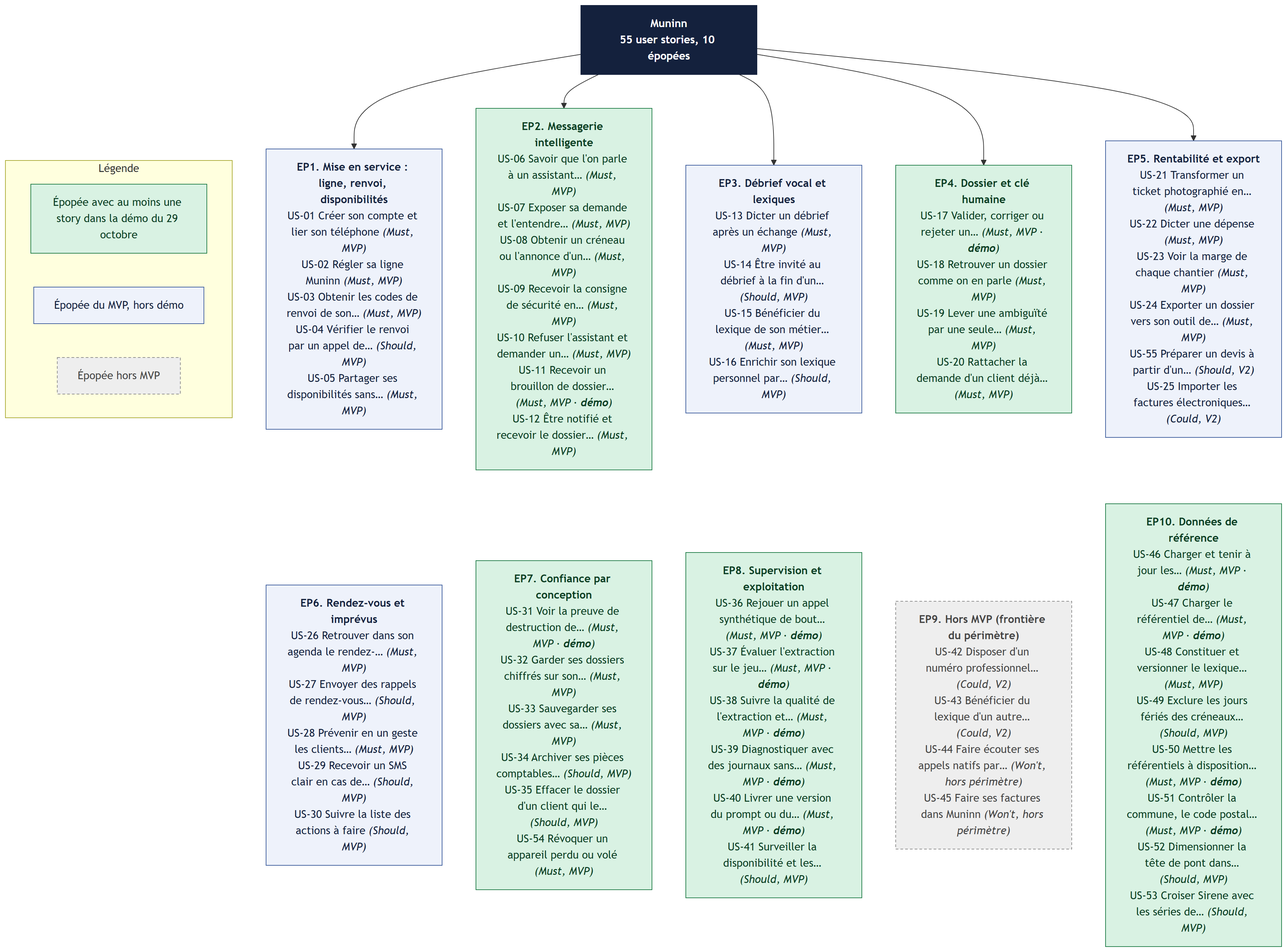
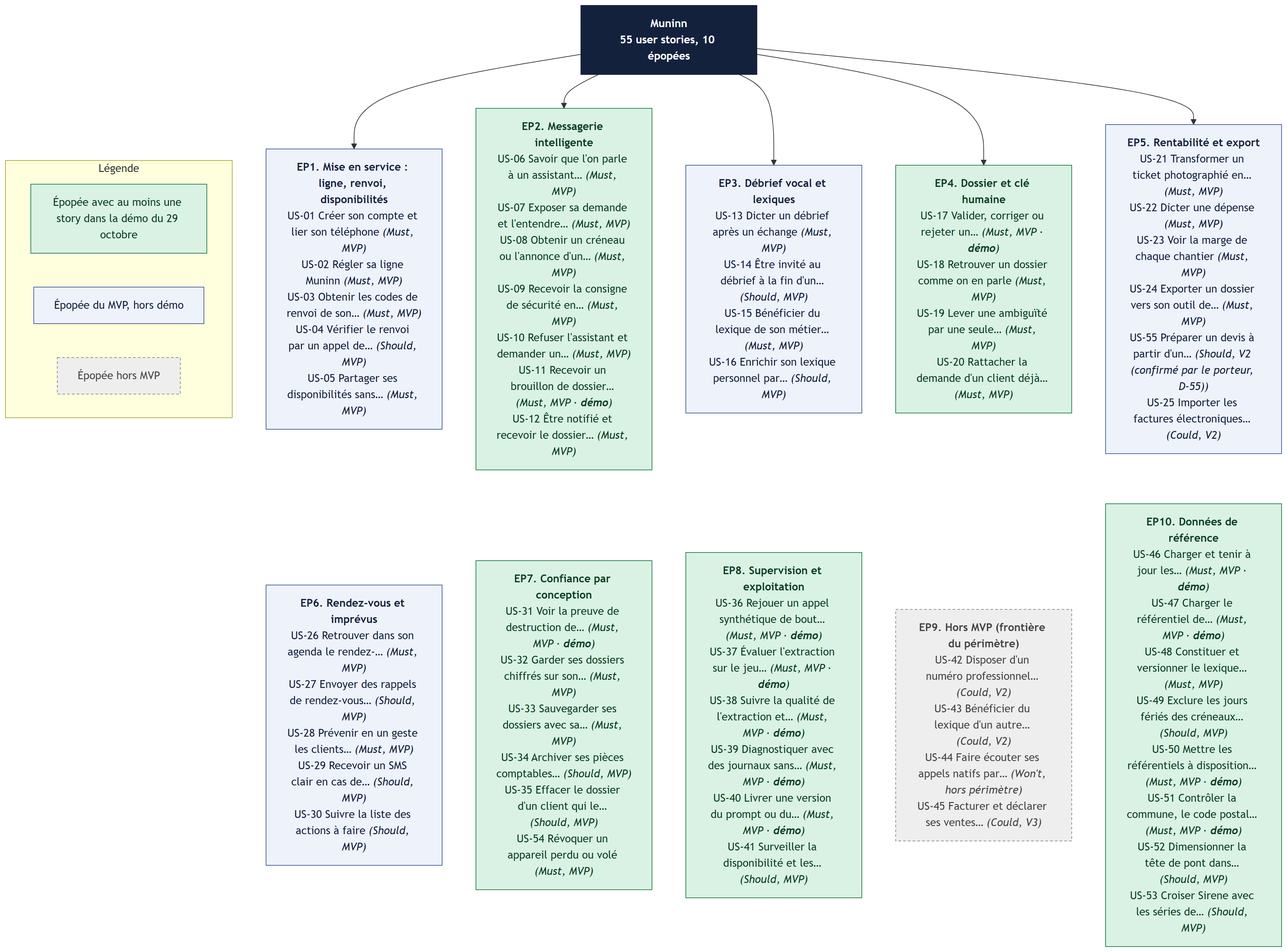
docs: valide D-54 et fixe les horizons du devis et de la facture (D-55) (#21)

Changed region(s): [[0.869, 0.1238, 0.9932, 0.4641], [0.7138, 0.6497, 0.8069, 0.8972]]

diff --git a/docs/conception/sources_de_donnees/01-user-stories.md b/docs/conception/sources_de_donnees/01-user-stories.md
@@ -48,7 +48,8 @@ Contraintes du projet de certification, rappelées par la feuille de route :
   - Should : forte valeur, mais un contournement existe ;
   - Could : utile, reportable sans perte de la promesse ;
   - Won't : exclu de l'horizon, gardé pour tracer la frontière du périmètre.
-- **Horizon :** MVP, V2 ou hors périmètre, selon la section 4.4 de l'analyse.
+- **Horizon :** MVP, V2, V3, V4 ou hors périmètre, selon la section 4.4 de l'analyse et les
+  décisions ultérieures (D-53, D-55).
 - **Démo :** « oui » si la story entre dans le périmètre de la démo du 29 octobre (section 8).
 - **Règles :** R1 à R10 de la passation back-end. « Aucune » si la story n'en touche aucune.
 - **Compétences :** codes C1 à C21 du référentiel servis par la réalisation de la story. Toutes
@@ -676,7 +677,7 @@ En tant qu'artisan, je veux que Muninn prépare un devis à partir d'un dossier,
 afin de l'envoyer vite au client après l'avoir vérifié.
 
 - Priorité : Should
-- Horizon : V2 [H : à confirmer par le porteur]
+- Horizon : V2 (confirmé par le porteur, D-55)
 - Démo : non
 - Règles : R1, R4, R5, R7
 - Compétences : C8, C9, C12, C17
@@ -1168,26 +1169,32 @@ Critères d'acceptation :
 Raison de l'exclusion : impossibilité technique pour une application tierce et risque pénal
 (analyse, section 1.4).
 
-#### US-45. Faire ses factures dans Muninn
+#### US-45. Facturer et déclarer ses ventes depuis Muninn
 
-En tant qu'artisan, je veux éditer mes factures dans Muninn afin de n'avoir qu'un outil.
+En tant qu'artisan, je veux facturer depuis un dossier de Muninn et que les données de mes ventes
+soient transmises à l'administration (e-reporting), afin de respecter la réforme sans changer
+d'outil.
 
-Depuis D-53 (14 octobre 2026), la story ne porte plus que sur les factures : la préparation des
-devis fait l'objet de US-55.
+Pour un artisan qui travaille surtout pour des particuliers, l'enjeu principal est l'e-reporting :
+les factures à des particuliers ne relèvent pas de la facture électronique.
 
-- Priorité : Won't
-- Horizon : hors périmètre
+Historique : « Won't » jusqu'au 14 octobre 2026 (marché saturé, levier 4) ; D-53 a ouvert les
+devis, D-55 ouvre la facturation électronique à l'horizon V3 ou V4.
+
+- Priorité : Could
+- Horizon : V3 [H : V3 ou V4, à fixer]
 - Démo : non
-- Règles : Aucune
-- Compétences : sans objet
+- Règles : R1, R5
+- Compétences : C17
 
 Critères d'acceptation :
 
-1. Étant donné l'application, quand on parcourt ses fonctions, alors elle n'émet aucune facture.
-2. Étant donné un dossier prêt à facturer, quand l'artisan veut une facture, alors Muninn lui
-   propose l'export vers son outil (US-24).
-
-Raison de l'exclusion : marché saturé ; Muninn se branche sur les outils existants (levier 4).
+1. Étant donné un dossier terminé, quand l'artisan émet une facture, alors elle part par la
+   plateforme agréée partenaire ; Muninn n'est pas lui-même plateforme agréée.
+2. Étant donné une vente à un particulier, quand elle est facturée, alors les données
+   d'e-reporting sont transmises par la même plateforme [H : obligations à vérifier à la date du lot].
+3. Étant donné un artisan qui garde son outil de facturation, quand il veut facturer, alors
+   l'export (US-24) reste disponible.
 
 Éléments de la section 4.4 non déclinés en stories :
 
@@ -1431,30 +1438,30 @@ Critères d'acceptation :
 
 ### 6.1 Propositions de valeur et configuration
 
-| Élément du concept                               | Stories                                  |
-| ------------------------------------------------ | ---------------------------------------- |
-| PV1. Messagerie intelligente                     | US-06 à US-12, US-51                     |
-| PV2. Débrief vocal                               | US-13, US-14                             |
-| PV3. Clé humaine de dossier                      | US-17 à US-20                            |
-| PV4. Rentabilité et export                       | US-21 à US-24 (MVP), US-25 et US-55 (V2) |
-| PV5. Imprévus et rendez-vous                     | US-26 à US-30                            |
-| PV6. Confiance par conception                    | US-31 à US-35, US-54                     |
-| Configuration de la ligne et du renvoi           | US-01 à US-04                            |
-| Disponibilités                                   | US-05, US-08, US-26, US-49               |
-| Lexique métier et personnel (levier 3)           | US-15, US-16, US-43, US-48               |
-| Supervision                                      | US-36 à US-41                            |
-| Référentiels et normalisation des champs         | US-46, US-47, US-50, US-51               |
-| Dimensionnement du marché (analyse, section 1.1) | US-52, US-53                             |
+| Élément du concept                               | Stories                                                    |
+| ------------------------------------------------ | ---------------------------------------------------------- |
+| PV1. Messagerie intelligente                     | US-06 à US-12, US-51                                       |
+| PV2. Débrief vocal                               | US-13, US-14                                               |
+| PV3. Clé humaine de dossier                      | US-17 à US-20                                              |
+| PV4. Rentabilité et export                       | US-21 à US-24 (MVP), US-25 et US-55 (V2), US-45 (V3 ou V4) |
+| PV5. Imprévus et rendez-vous                     | US-26 à US-30                                              |
+| PV6. Confiance par conception                    | US-31 à US-35, US-54                                       |
+| Configuration de la ligne et du renvoi           | US-01 à US-04                                              |
+| Disponibilités                                   | US-05, US-08, US-26, US-49                                 |
+| Lexique métier et personnel (levier 3)           | US-15, US-16, US-43, US-48                                 |
+| Supervision                                      | US-36 à US-41                                              |
+| Référentiels et normalisation des champs         | US-46, US-47, US-50, US-51                                 |
+| Dimensionnement du marché (analyse, section 1.1) | US-52, US-53                                               |
 
 ### 6.2 Règles R1 à R10
 
 | Règle | Objet                                             | Stories                                                                                                                                     |
 | ----- | ------------------------------------------------- | ------------------------------------------------------------------------------------------------------------------------------------------- |
-| R1    | Aucun dossier en clair côté serveur               | US-01, US-05, US-08, US-12, US-16 à US-21, US-23 à US-28, US-30, US-32 à US-35, US-38, US-41, US-51, US-54, US-55                           |
+| R1    | Aucun dossier en clair côté serveur               | US-01, US-05, US-08, US-12, US-16 à US-21, US-23 à US-28, US-30, US-32 à US-35, US-38, US-41, US-45, US-51, US-54, US-55                    |
 | R2    | Audio détruit après extraction                    | US-04, US-10, US-11, US-13, US-14, US-22, US-31, US-42, US-44                                                                               |
 | R3    | Transcriptions éphémères                          | US-11, US-13, US-16, US-18, US-22, US-31, US-36, US-39, US-51                                                                               |
 | R4    | Journaux sans donnée personnelle                  | US-01, US-05, US-11, US-12, US-16, US-17, US-20, US-21, US-26 à US-29, US-31, US-35, US-38, US-39, US-41, US-50, US-51, US-52, US-54, US-55 |
-| R5    | Hébergement et traitement dans l'UE               | US-11, US-13, US-15, US-21, US-22, US-25, US-37, US-40, US-43, US-50, US-55                                                                 |
+| R5    | Hébergement et traitement dans l'UE               | US-11, US-13, US-15, US-21, US-22, US-25, US-37, US-40, US-43, US-45, US-50, US-55                                                          |
 | R6    | L'agent s'annonce toujours                        | US-02, US-04, US-06, US-07, US-09, US-10, US-42                                                                                             |
 | R7    | Aucune donnée de santé                            | US-09, US-11, US-13, US-55                                                                                                                  |
 | R8    | Pas de secret dans le dépôt                       | US-40                                                                                                                                       |
@@ -1470,26 +1477,26 @@ citent R5 appellent un fournisseur d'IA et sont couvertes par ce contrôle.
 
 ### 6.3 Compétences du référentiel
 
-| Compétences | Stories                                                                                             | Remarque                                                                                    |
-| ----------- | --------------------------------------------------------------------------------------------------- | ------------------------------------------------------------------------------------------- |
-| C1          | US-25, US-46 à US-49, US-52, US-53                                                                  | Extraction automatisée des sources SRC-01 à SRC-14 (phase 3)                                |
-| C2          | US-50, US-52                                                                                        | Requêtes SQL sur la base des référentiels et sur Sirene                                     |
-| C3          | US-11, US-46 à US-49, US-51 à US-53                                                                 | Normalisation des champs extraits (E.164, code postal), nettoyage et agrégation des sources |
-| C4          | US-01, US-05, US-12, US-32 à US-35, US-41, US-46, US-47, US-54                                      | Base conforme au RGPD, durées de conservation, base des référentiels                        |
-| C5          | US-50, US-51                                                                                        | API REST des référentiels, consommée par l'extraction                                       |
-| C6, C7      | sans objet                                                                                          | Portées par la phase 0b (veille, benchmark)                                                 |
-| C8          | US-02, US-06 à US-11, US-13, US-15, US-16, US-21, US-22, US-25, US-28, US-43, US-48, US-55          | Paramétrage des services de transcription et de LLM                                         |
-| C9          | US-07, US-11, US-12, US-13, US-21, US-22, US-36, US-51, US-55                                       | API exposant l'extraction                                                                   |
-| C10         | US-13, US-17, US-36                                                                                 | Intégration de l'API dans une interface accessible                                          |
-| C11         | US-17, US-37, US-38                                                                                 | Métriques de qualité et tableau de bord                                                     |
-| C12         | US-06, US-09, US-11, US-15, US-31, US-36, US-37, US-40, US-43, US-51, US-55                         | Évaluation des réponses, validation des formats, conformité                                 |
-| C13         | US-37, US-40                                                                                        | Livraison contrôlée, versionnage, retour arrière                                            |
-| C14         | toutes                                                                                              | Ce document et le document 04                                                               |
-| C15, C16    | sans objet                                                                                          | Portées par la phase 2 (architecture, méthode agile)                                        |
-| C17         | US-01 à US-05, US-12, US-14, US-16 à US-20, US-23, US-24, US-26 à US-30, US-32, US-33, US-54, US-55 | Composants et interfaces                                                                    |
-| C18, C19    | US-40                                                                                               | Intégration et livraison continues                                                          |
-| C20         | US-31, US-38, US-39, US-41                                                                          | Surveillance et journalisation conforme                                                     |
-| C21         | US-39                                                                                               | Fiches d'incident                                                                           |
+| Compétences | Stories                                                                                                    | Remarque                                                                                    |
+| ----------- | ---------------------------------------------------------------------------------------------------------- | ------------------------------------------------------------------------------------------- |
+| C1          | US-25, US-46 à US-49, US-52, US-53                                                                         | Extraction automatisée des sources SRC-01 à SRC-14 (phase 3)                                |
+| C2          | US-50, US-52                                                                                               | Requêtes SQL sur la base des référentiels et sur Sirene                                     |
+| C3          | US-11, US-46 à US-49, US-51 à US-53                                                                        | Normalisation des champs extraits (E.164, code postal), nettoyage et agrégation des sources |
+| C4          | US-01, US-05, US-12, US-32 à US-35, US-41, US-46, US-47, US-54                                             | Base conforme au RGPD, durées de conservation, base des référentiels                        |
+| C5          | US-50, US-51                                                                                               | API REST des référentiels, consommée par l'extraction                                       |
+| C6, C7      | sans objet                                                                                                 | Portées par la phase 0b (veille, benchmark)                                                 |
+| C8          | US-02, US-06 à US-11, US-13, US-15, US-16, US-21, US-22, US-25, US-28, US-43, US-48, US-55                 | Paramétrage des services de transcription et de LLM                                         |
+| C9          | US-07, US-11, US-12, US-13, US-21, US-22, US-36, US-51, US-55                                              | API exposant l'extraction                                                                   |
+| C10         | US-13, US-17, US-36                                                                                        | Intégration de l'API dans une interface accessible                                          |
+| C11         | US-17, US-37, US-38                                                                                        | Métriques de qualité et tableau de bord                                                     |
+| C12         | US-06, US-09, US-11, US-15, US-31, US-36, US-37, US-40, US-43, US-51, US-55                                | Évaluation des réponses, validation des formats, conformité                                 |
+| C13         | US-37, US-40                                                                                               | Livraison contrôlée, versionnage, retour arrière                                            |
+| C14         | toutes                                                                                                     | Ce document et le document 04                                                               |
+| C15, C16    | sans objet                                                                                                 | Portées par la phase 2 (architecture, méthode agile)                                        |
+| C17         | US-01 à US-05, US-12, US-14, US-16 à US-20, US-23, US-24, US-26 à US-30, US-32, US-33, US-45, US-54, US-55 | Composants et interfaces                                                                    |
+| C18, C19    | US-40                                                                                                      | Intégration et livraison continues                                                          |
+| C20         | US-31, US-38, US-39, US-41                                                                                 | Surveillance et journalisation conforme                                                     |
+| C21         | US-39                                                                                                      | Fiches d'incident                                                                           |
 
 ## 7. Synthèse
 
@@ -1539,7 +1546,7 @@ citent R5 appellent un fournisseur d'IA et sont couvertes par ce contrôle.
 | US-42 | Numéro professionnel complet             | Could    | V2             | non  |
 | US-43 | Lexiques d'autres métiers                | Could    | V2             | non  |
 | US-44 | Écoute des appels natifs                 | Won't    | hors périmètre | non  |
-| US-45 | Factures dans Muninn                     | Won't    | hors périmètre | non  |
+| US-45 | Facturer et déclarer ses ventes          | Could    | V3             | non  |
 | US-46 | Référentiels géographiques               | Must     | MVP            | oui  |
 | US-47 | Référentiel de numérotation              | Must     | MVP            | oui  |
 | US-48 | Lexique métier constitué et versionné    | Must     | MVP            | non  |
@@ -1551,8 +1558,8 @@ citent R5 appellent un fournisseur d'IA et sont couvertes par ce contrôle.
 | US-54 | Révocation d'un appareil                 | Must     | MVP            | non  |
 | US-55 | Préparation d'un devis (D-53)            | Should   | V2             | non  |
 
-Décompte : 55 stories ; 49 au MVP (37 Must, 12 Should), 4 en V2 (US-25, US-42, US-43, US-55), 2 hors
-périmètre (US-44, US-45) ; 12 dans la démo. US-52 et US-53 sont classées au MVP comme études
+Décompte : 55 stories ; 49 au MVP (37 Must, 12 Should), 4 en V2 (US-25, US-42, US-43, US-55), 1 en
+V3 ou V4 (US-45), 1 hors périmètre (US-44) ; 12 dans la démo. US-52 et US-53 sont classées au MVP comme études
 préalables au lancement ; elles n'ajoutent aucune fonction à l'application.
 
 ## 8. Périmètre minimal de la démo du 29 octobre

diff --git a/docs/decisions.md b/docs/decisions.md
@@ -59,4 +59,5 @@ Les décisions qui changent la conception sont détaillées dans `decisions-deta
 | D-51 | 2026-10-14 | Trame de l'agent vocal : vouvoiement ; « intelligence artificielle » dite dès la première phrase ; transcription annoncée, avec possibilité de s'y opposer ; deux minutes au plus ; aucun délai ni prix promis, aucun créneau en V1 ; orientation de sécurité en cas d'odeur de gaz. Précise D-04. Validée par le formateur le 14 octobre 2026                                                                                                                                                                                                                                                                                                                                                                                                | AI Act, art. 50(1), applicable depuis le 2 août 2026 ; information de l'appelant (CNIL) ; garde-fous de la V1 ; sources dans la trame, section 7                                                                                                                                                                                                                                                                                                                                                                                                                                                                                                                                                                                      | `docs/conception/appels-et-voix/02-trame-agent-vocal.md`                                                        |
 | D-52 | 2026-10-14 | Calendrier recalé par la v1.5 du dossier V1 : V1.0 du 14 au 21 octobre (sprint 4 du ven. 16 au mar. 20, sprint 5 les 20 et 21), V1.0 complète (OpenTelemetry et alerte Azure Monitor) le 22, réserve les 23 et 24                                                                                                                                                                                                                                                                                                                                                                                                                                                                                                                             | La v1.5 ajoute 1,75 jour (D-48 à D-50) ; le déploiement automatisé, prévu le 20 (D-40), est livré au sprint 2 (D-43). Remplace les dates de D-36 et de D-41                                                                                                                                                                                                                                                                                                                                                                                                                                                                                                                                                                           | `docs/v1/roadmap-v1.md`                                                                                         |
 | D-53 | 2026-10-14 | Muninn prépare des devis, mais n'émet pas de factures : un agent de préparation de devis, outillé d'un catalogue de prix de l'artisan, de l'historique de ses devis (sans identité de client) et du lexique métier, propose un brouillon ; le serveur calcule totaux et TVA et retire tout prix non sourcé, l'appareil ajoute les mentions nominatives et contrôle les mentions obligatoires ; côté serveur, l'agent est sans état et ne reçoit aucune donnée nominative (R1) ; rien n'est envoyé sans la validation de l'artisan. Les factures restent dans l'outil de l'artisan, par export (US-24). Hors V1. Remplace l'exclusion des devis de US-45 et s'écarte du concept sur ce point (levier 4 : se brancher sur les outils existants) | Volonté du porteur. L'analyse stratégique jugeait le marché du devis saturé ; hypothèse de différenciation, à vérifier : le devis part du dossier déjà constitué à partir de l'appel                                                                                                                                                                                                                                                                                                                                                                                                                                                                                                                                                  | `docs/conception/architecture-agentique/01-architecture-agentique.md`                                           |
-| D-54 | 2026-10-14 | **Proposée.** Architecture agentique de Muninn : plusieurs agents et extracteurs spécialisés à périmètre étroit (agents : extraction, agenda, devis ; extracteurs : message, débrief, dépense), précédés d'un routeur (D-48) et suivis d'un évaluateur déterministe ; l'enchaînement est écrit dans le code ; pas de système multi-agents autonome ni de superviseur LLM                                                                                                                                                                                                                                                                                                                                                                      | Tâches courtes, connues d'avance et typées ; reproductibilité des évaluations (C12), coût et latence bornés                                                                                                                                                                                                                                                                                                                                                                                                                                                                                                                                                                                                                           | `docs/conception/architecture-agentique/01-architecture-agentique.md`                                           |
+| D-54 | 2026-10-14 | Architecture agentique de Muninn : plusieurs agents et extracteurs spécialisés à périmètre étroit (agents : extraction, agenda, devis ; extracteurs : message, débrief, dépense), précédés d'un routeur (D-48) et suivis d'un évaluateur déterministe ; l'enchaînement est écrit dans le code ; pas de système multi-agents autonome ni de superviseur LLM. Validée par le porteur le 14 octobre 2026                                                                                                                                                                                                                                                                                                                                         | Tâches courtes, connues d'avance et typées ; reproductibilité des évaluations (C12), coût et latence bornés                                                                                                                                                                                                                                                                                                                                                                                                                                                                                                                                                                                                                           | `docs/conception/architecture-agentique/01-architecture-agentique.md`                                           |
+| D-55 | 2026-10-14 | Facturation électronique et e-reporting dans Muninn à l'horizon V3 ou V4 : pour un artisan qui travaille surtout pour des particuliers, l'enjeu principal est la déclaration des données de ses ventes à l'administration (e-reporting), plus que la facture électronique ; émission des factures et transmission des données depuis un dossier, par une plateforme agréée partenaire (Muninn ne devient pas lui-même plateforme agréée). D'ici là, l'export vers l'outil de facturation de l'artisan (US-24) reste la voie. Préparation de devis confirmée à l'horizon V2 (US-55). Remplace, pour ces horizons, l'exclusion des factures de D-53 et de US-45                                                                                 | Volonté du porteur. La réforme impose l'émission électronique des factures entre entreprises au plus tard le 1er septembre 2027 pour les petites entreprises, et un e-reporting pour les ventes aux particuliers à la même date (FAQ DGFiP, version du 1er septembre 2026) ; le besoin de l'artisan évoluera avec elle                                                                                                                                                                                                                                                                                                                                                                                                                | `docs/conception/sources_de_donnees/01-user-stories.md` (US-45)                                                 |

diff --git a/docs/conception/sources_de_donnees/02-flux-de-donnees.md b/docs/conception/sources_de_donnees/02-flux-de-donnees.md
@@ -1088,8 +1088,8 @@ d'année de fin.
 **Objet.** Envoyer un dossier validé vers l'outil de facturation de l'artisan, sans passer par le
 serveur Muninn. La préparation de devis (US-55), elle, passe par le serveur, en mémoire et sans
 donnée nominative (`../architecture-agentique/01-architecture-agentique.md`, section 8.1).
-**Stories couvertes.** US-24, US-30 (relance de paiement). US-45 (hors périmètre) est la
-frontière : Muninn n'émet aucune facture. Depuis D-53, Muninn prépare des devis (US-55, conception
+**Stories couvertes.** US-24, US-30 (relance de paiement). US-45 (facturation électronique,
+horizon V3 ou V4, D-55) en est la suite : d'ici là, Muninn n'émet aucune facture. Depuis D-53, Muninn prépare des devis (US-55, conception
 dans `../architecture-agentique/01-architecture-agentique.md`) ; les factures restent dans
 l'outil de l'artisan.
 **Déclencheur.** L'artisan touche « Exporter ».
@@ -1615,7 +1615,7 @@ flux dont elle trace la limite.
 | US-42 | Numéro professionnel complet             | F-02                           | Frontière V2 : enregistrement contraire à R2  |
 | US-43 | Lexiques d'autres métiers                | F-09, F-11                     | V2, même chaîne que US-48                     |
 | US-44 | Écoute des appels natifs                 | F-03                           | Frontière : seule la fin d'appel est détectée |
-| US-45 | Factures dans Muninn                     | F-08                           | Frontière : export seulement                  |
+| US-45 | Factures électroniques (D-55)            | F-08                           | Suite de l'export, horizon V3 ou V4           |
 | US-55 | Préparation d'un devis (D-53)            | non disponible (flux à écrire) | `architecture-agentique/01`, section 8        |
 | US-46 | Référentiels géographiques               | F-09, F-12                     | F-09 messages 1 à 8                           |
 | US-47 | Référentiel de numérotation              | F-09, F-12                     | F-09 messages 9 et 10                         |
